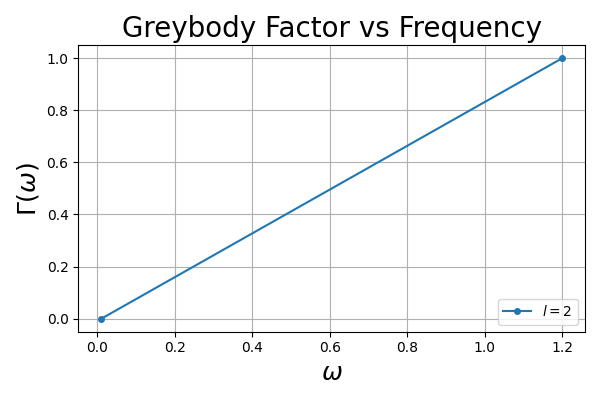
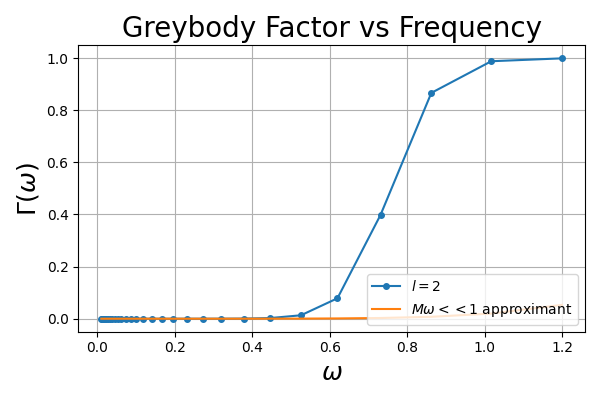
Added log spacing of omegas and plotting of low frequency approximation of GBF

diff --git a/GBF/NumericalGBF.py b/GBF/NumericalGBF.py
@@ -8,6 +8,7 @@ import imageio.v2 as imageio
 import os
 import glob
 import argparse
+import math
 
 # import sys
 # from pathlib import Path
@@ -62,7 +63,7 @@ if args.post_processing:
 if args.omega_start < args.omega_final:
     raise ValueError("omega_final must be less than omega_start")
 
-omega_schedule = np.linspace(args.omega_start, args.omega_final, args.num_steps)
+omega_schedule = np.logspace(np.log10(args.omega_start), np.log10(args.omega_final), args.num_steps)
 
 modes = [mode]
 
@@ -135,6 +136,15 @@ def extraction(sol, x_extract, mass, mode, omega):
     GBF = 1.0/np.abs(alpha)**2
 
     return GBF, alpha, beta, flux_check
+
+def low_freq_limit(mass, mode, omega):
+    dimensionless_freq = mass*omega
+
+    numerator = 2**(2*mode + 2)*math.factorial(mode - 2)*math.factorial(mode)*math.factorial(mode + 2)
+    denominator = math.factorial(2*mode)*math.factorial(2*mode + 1)
+    Cl2 = (numerator/denominator)**2
+
+    return Cl2*dimensionless_freq**(2*mode + 2)
 
 print("Initialising solver...")
 
@@ -301,13 +311,15 @@ else:
     plt.figure(figsize = [6,4])
     for l in modes:
         GBF_values = np.array([results[l][om]["GBF"] for om in omega_schedule])
+        lowfreq_asymptotic = low_freq_limit(mass, l, omega_schedule)
         plt.plot(omega_schedule, GBF_values, 'o-', label = f"$l = {int(l)}$", markersize = 4)
+        plt.plot(omega_schedule, lowfreq_asymptotic, label = r"$M \omega << 1$ approximant")
     plt.xlabel(r'$\omega$', fontsize = 18)
     plt.ylabel(r'$\Gamma(\omega)$', fontsize = 18)
     plt.title('Greybody Factor vs Frequency', fontsize = 20)
     plt.legend(loc = 'lower right')
     # plt.ylim(-0.05, 1.05)
-    plt.grid()
+    plt.grid(which = 'both')
     plt.tight_layout()
     plt.savefig(f'{plots_path}/GBF.png', format = 'png')
     plt.close()
@@ -315,7 +327,9 @@ else:
     plt.figure(figsize = [6,4])
     for l in modes:
         GBF_values = np.array([results[l][om]["GBF"] for om in omega_schedule])
+        lowfreq_asymptotic = low_freq_limit(mass, l, omega_schedule)
         plt.plot(omega_schedule, GBF_values, 'o-', label = f"$l = {int(l)}$", markersize = 4)
+        plt.plot(omega_schedule, lowfreq_asymptotic, label = r"$M \omega \ll 1$ approximant")
     # plt.hlines(0.5, color = 'k', linestyle = '--')
     plt.xlabel(r'$\omega$', fontsize = 18)
     plt.ylabel(r'$\Gamma(\omega)$', fontsize = 18)
@@ -323,7 +337,7 @@ else:
     plt.legend(loc = 'lower right')
     plt.yscale('log')
     plt.tight_layout()
-    plt.grid()
+    plt.grid(which = 'both')
     plt.savefig(f'{plots_path}/logGBF.png', format = 'png')
     plt.close()
 
@@ -335,7 +349,7 @@ else:
 
     #For convergence test
     convergence_l = mode
-    convergence_omega = omega_schedule[0]
+    convergence_omega = omega_schedule[-1]
 
     extraction_points = [0.95, 0.97, 0.98, 0.99, 0.995, 0.999, 0.9995, 0.9999]
 
